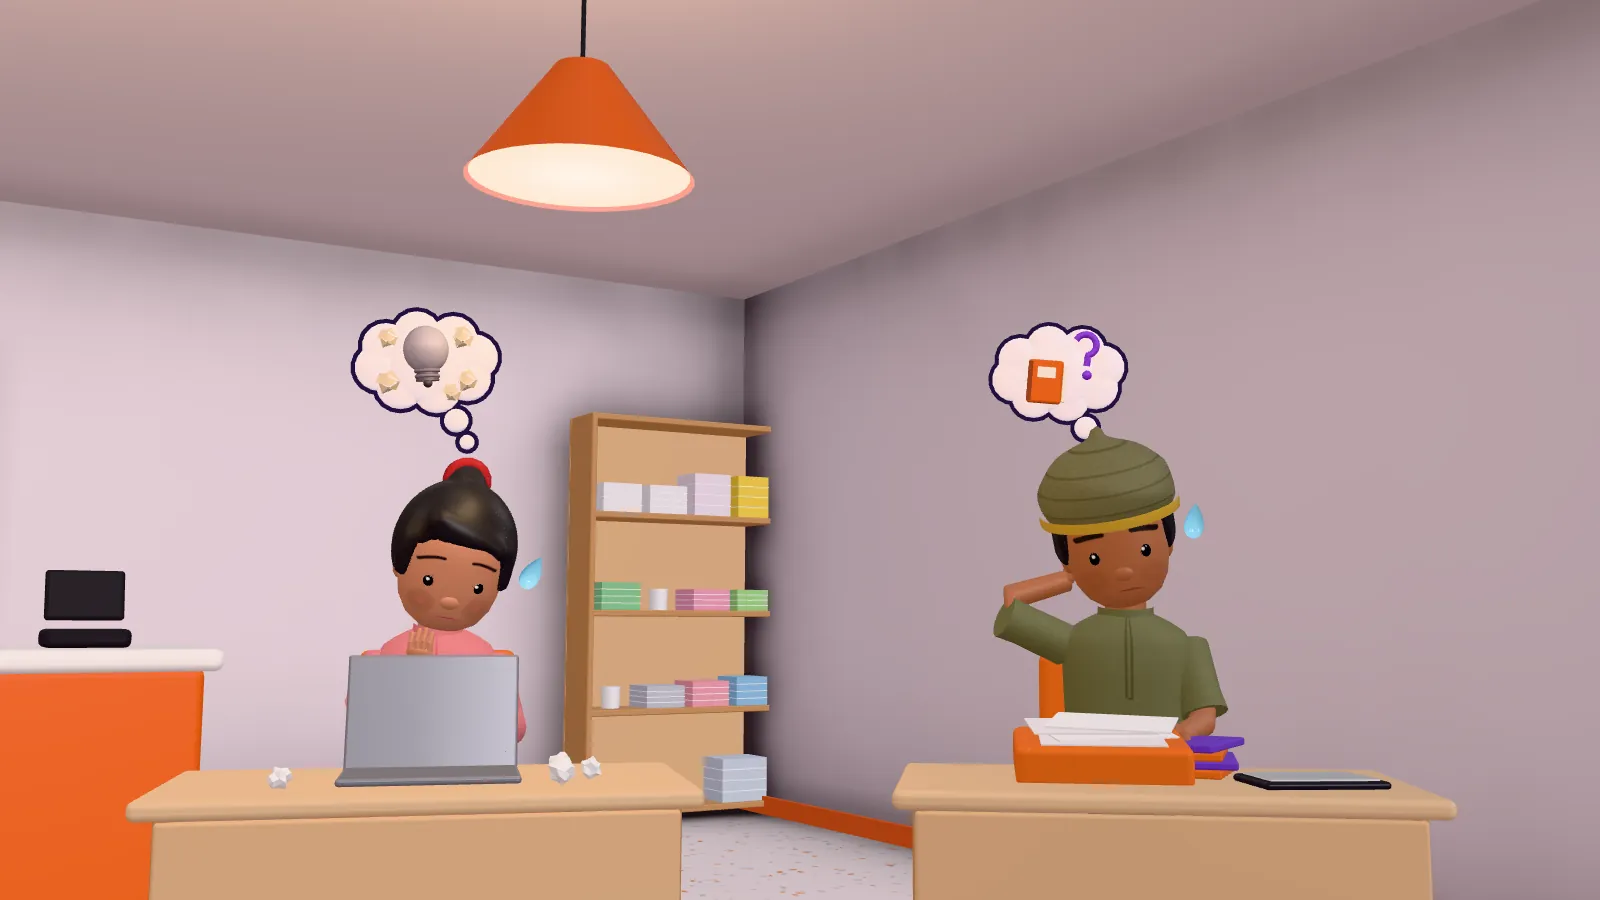
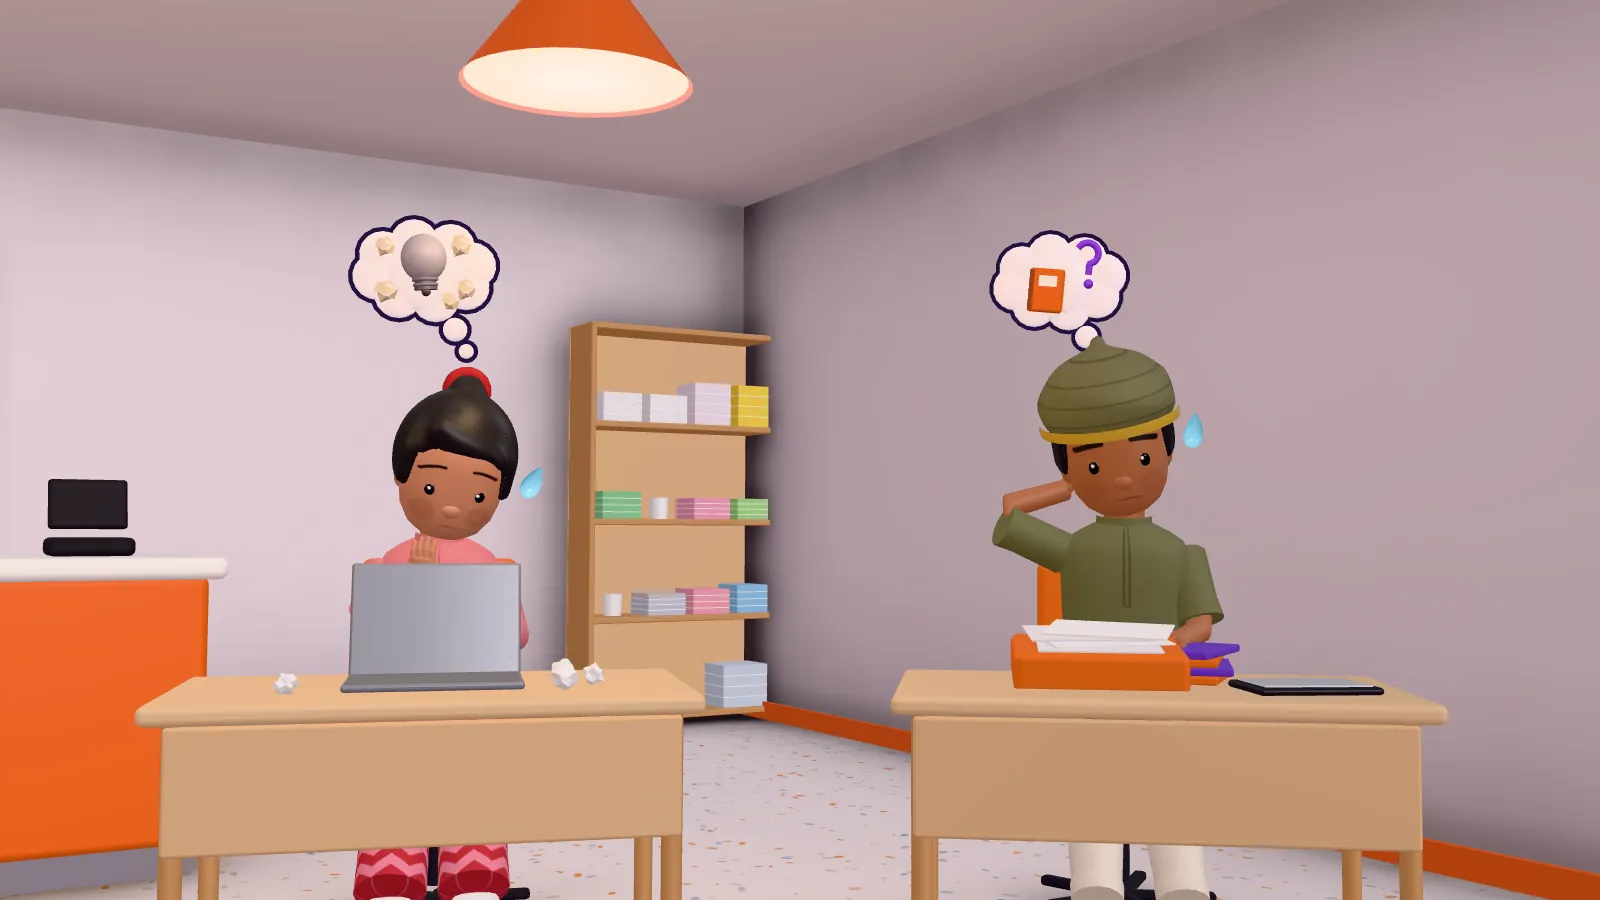
Keep the desks' front panels whole at K2.1 and K2.2 (#15)
The panels in front of the four staff desks will carry copy, so they now
stay whole with a margin in the hold and while the camera moves
K2 -> K2.1 -> K2.2.

- 16:9: the solved K2.1 and K2.2 cameras tilt down a little, and the
  dolly from K2 looks a little lower as it comes down past Heru's head.
- Phones narrower than 9:16: both panels of a shot already spanned the
  screen, so K2.1 and K2.2 step back (and K2.2 turns a little) until
  both are whole. 9:16 and tablets are unchanged.
- PC stills K2.1 and K2.2 re-rendered; the 9:16 stills came out identical.

Refs #15

diff --git a/site/world/takes/home/index.ts b/site/world/takes/home/index.ts
@@ -21,9 +21,35 @@ export { followDoorClock, heruAt, heruClock, heruGate, poseHeru, type HeruState 
 
 const SEG_K2 = SEG.find((s) => s.from === "K2" && s.type === "move")!.screens,
   SEG_K21 = SEG.find((s) => s.from === "K2.1")!.screens;
-const kf = (k: SolvedKey, t: number) => blendCam(DATA.cams.pc[k], DATA.cams.hp[k], t);
-const UP = new THREE.Vector3(0, 1, 0);
+const UP = new THREE.Vector3(0, 1, 0),
+  RIGHT = new THREE.Vector3(1, 0, 0);
 const yawQ = (a: number) => new THREE.Quaternion().setFromAxisAngle(UP, a);
+const pitchQ = (a: number) => new THREE.Quaternion().setFromAxisAngle(RIGHT, a);
+
+// Issue #15: the front panels of the desks get copy, so they stay whole, a little clear of the edges of the frame,
+// at K2.1 and K2.2 and on the way there.
+/** pc: the solved K2.1 and K2.2 cameras tilt down this much (radians; none on hp, where the panels sit mid-frame). */
+const TILT: Partial<Record<SolvedKey, number>> = { "K2.1": 0.07, "K2.2": 0.062 },
+  /** pc: extra tilt down at the middle of the dolly K2 → K2.1 (radians), as the camera comes down past Heru. */
+  DIP = 0.1;
+/**
+ * Phones narrower than 9:16 (most of them): the two panels of each shot already span the screen's width, so K2.1
+ * and K2.2 step back (metres) and K2.2 turns a little left (radians) to keep both whole. `narrow` is 0 at 9:16 and
+ * wider (the hp keyframes' own format, where they fit), 1 at 375 × 812.
+ */
+const BACK: Partial<Record<SolvedKey, number>> = { "K2.1": 0.45, "K2.2": 0.6 },
+  TURN: Partial<Record<SolvedKey, number>> = { "K2.2": 0.013 };
+const narrowness = (aspect: number) => Math.min(1.5, Math.max(0, (9 / 16 - aspect) / (9 / 16 - 375 / 812)));
+const kf = (k: SolvedKey, t: number, narrow = 0) => {
+  const c = blendCam(DATA.cams.pc[k], DATA.cams.hp[k], t);
+  if (narrow > 0 && BACK[k]) {
+    const fwd = new THREE.Vector3(0, 0, -1).applyQuaternion(c.quat).setY(0).normalize();
+    c.pos.addScaledVector(fwd, -BACK[k] * narrow);
+    c.quat.premultiply(yawQ((TURN[k] ?? 0) * narrow));
+  }
+  if (TILT[k]) c.quat.multiply(pitchQ(-TILT[k] * (1 - t)));
+  return c;
+};
 
 /** Ease with zero speed at the start and speed `m` (in units of the whole move) at the end. */
 const easeTo = (u: number, m: number) => (m - 2) * u ** 3 + (3 - m) * u ** 2;
@@ -34,10 +60,10 @@ const DRIFT = { yaw: 0.05, settle: 0.14 };
 
 const paths = new Map<string, { curve: THREE.CatmullRomCurve3; atB: number }>();
 /** Dolly path K2 → over Heru's head → K2.1 → on, measured by length; `atB` is K2.1's share of it. */
-function panPath(t: number, heru: { x: number; z: number }) {
+function panPath(t: number, heru: { x: number; z: number }, narrow: number) {
   const A = kf("K2", t),
-    B = kf("K2.1", t),
-    id = `${t.toFixed(3)} ${heru.x.toFixed(3)} ${heru.z.toFixed(3)}`;
+    B = kf("K2.1", t, narrow),
+    id = `${t.toFixed(3)} ${narrow.toFixed(3)} ${heru.x.toFixed(3)} ${heru.z.toFixed(3)}`;
   let c = paths.get(id);
   if (!c) {
     // over Heru's head (hair top 1.8 m), then down to the seated staff
@@ -58,16 +84,16 @@ function panPath(t: number, heru: { x: number; z: number }) {
 }
 
 /** Camera after K2.1, before the whip: still drifting forward and left, slowing down (u over the K2.1 move). */
-function drift(t: number, heru: { x: number; z: number }, u: number): CamPose {
-  const { B, curve, atB } = panPath(t, heru);
+function drift(t: number, heru: { x: number; z: number }, u: number, narrow: number): CamPose {
+  const { B, curve, atB } = panPath(t, heru, narrow);
   // the same speed per screen as on arrival, easing off over the move
   const k = (1 - (1 - u) ** 2) / 2,
     g = atB * ARRIVE * (SEG_K21 / SEG_K2) * k;
   return { pos: curve.getPointAt(atB + g), quat: yawQ(DRIFT.yaw * 2 * k).multiply(B.quat.clone()), fov: B.fov };
 }
 /** Camera coming into K2.2 after the whip: a little short of it and still turning right, at rest at u = 1. */
-function settle(t: number, u: number): CamPose {
-  const C = kf("K2.2", t),
+function settle(t: number, u: number, narrow: number): CamPose {
+  const C = kf("K2.2", t, narrow),
     k = (1 - u) ** 2,
     back = new THREE.Vector3(0, 0, 1).applyQuaternion(C.quat).setY(0).normalize();
   return {
@@ -94,7 +120,8 @@ export function cameraAt(
   outClock?: number,
 ): CamPose & { key: KeyName } {
   const { seg, u, start } = segmentAt(SEG, p);
-  const x = start + u * seg.screens;
+  const x = start + u * seg.screens,
+    narrow = narrowness(aspect);
   // beats 6–9a (tahap 7, greybox): in through Kreatekno's door from where the truck stopped at K5a.6
   if (x >= LOBBY_START) {
     const k56 = beat5Camera(LOBBY_START, Math.round(t * LAYOUT_STEPS), t, aspect, pairX(scrollClock(LOBBY_START)));
@@ -108,27 +135,30 @@ export function cameraAt(
   }
   if (seg.from === "K3" || seg.from === "K4") {
     if (seg.type === "hold") return { ...(seg.from === "K3" ? k3View : k4View)(t, aspect), key: seg.from };
-    return { ...beat34Camera(t, aspect, kf("K2.2", t), null, u), key: u < 0.5 ? "K3" : "K4" };
+    return { ...beat34Camera(t, aspect, kf("K2.2", t, narrow), null, u), key: u < 0.5 ? "K3" : "K4" };
   }
   if (seg.type === "move" && (seg.from === "K2.2" || seg.from === "K2.4")) {
     const s = seg.from === "K2.2" ? u * seg.screens : SEG_K22 + u * seg.screens;
     const key = s < SEG_K22 * 0.6 ? "K2.2" : s < SEG_K22 + seg.screens * 0.5 ? "K2.4" : "K3";
-    return { ...beat34Camera(t, aspect, kf("K2.2", t), s), key };
+    return { ...beat34Camera(t, aspect, kf("K2.2", t, narrow), s), key };
   }
-  if (seg.type === "hold") return { ...kf(seg.from as SolvedKey, t), key: seg.from };
+  if (seg.type === "hold") return { ...kf(seg.from as SolvedKey, t, narrow), key: seg.from };
   if (seg.from === "K2") {
-    const { A, B, curve, atB } = panPath(t, heru),
-      e = easeTo(u, ARRIVE);
+    const { A, B, curve, atB } = panPath(t, heru, narrow),
+      e = easeTo(u, ARRIVE),
+      // issue #15: coming down past Heru's head the camera looks a little lower, so Sinta's and Bayu's panels do
+      // not dip under the bottom edge on the way (most at e = 2/3, none at either end)
+      dip = DIP * (1 - t) * (27 / 4) * e ** 2 * (1 - e);
     return {
       pos: curve.getPointAt(atB * e),
-      quat: A.quat.clone().slerp(B.quat, e),
+      quat: A.quat.clone().slerp(B.quat, e).multiply(pitchQ(-dip)),
       fov: lerp(A.fov, B.fov, e),
       key: u < 0.5 ? "K2" : "K2.1",
     };
   }
   if (seg.from === "K2.1") {
-    const a = drift(t, heru, u),
-      b = settle(t, u);
+    const a = drift(t, heru, u, narrow),
+      b = settle(t, u, narrow);
     return {
       pos: a.pos.lerp(b.pos, whip),
       quat: a.quat.slerp(b.quat, whip),

diff --git a/PLAN.md b/PLAN.md
@@ -1862,3 +1862,21 @@ Detail di **[PLAN-SOLUSI.md](PLAN-SOLUSI.md)**: sumber v1, arsitektur etalase, d
 ### 2026-11-13 (tahap 7 langkah 5–6 di-commit)
 
 - Atas permintaan user ("commit perubahan tahap 7"): langkah 5–6 di-commit ke `main` (belum di-push). Isinya hanya file tahap 7 (props lobi, stills, `HomeStage`/`HomeTake`, `world/index.ts`, `row.ts`, `takes/home/lobby.ts`, `timing.ts`, alat `tools/render`), di `messages` hanya subtree `home`, dan di `PLAN.md` hanya status dan plan tahap 7 serta entri log tahap 7. Tidak ikut: pekerjaan Solusi, `takes/home/index.ts` dan entri log issue #15. Isi commit dicek sendiri (typecheck, ESLint, `next build`).
+
+### 2026-11-13 (issue #15: kamera meja K2.1/K2.2)
+
+- Penyebab:
+  - PC: kamera solver K2.1 dan K2.2 sedikit mendongak (+3,5° dan +6,6°). Di 1280×720 tepi bawah panel depan ada di 721/771 (K2.1) dan 768/762 (K2.2) dari 720. Selama dolly K2 → K2.1 panel turun sampai 846.
+  - HP 375×812: panel utuh tapi kecil (44–49 px). Dua panel satu shot sudah selebar layar (ujung luar −6/378 dan −28/390 px), jadi kamera tidak bisa lebih dekat tanpa memotong panel. User memilih panel utuh (pilihan A, 13 Nov); kamera HP tidak dibuat lebih dekat.
+- Diubah hanya `site/world/takes/home/index.ts` (`data.json` tetap):
+  - PC: `TILT` K2.1 0,07 rad dan K2.2 0,062 rad menunduk, `DIP` 0,1 rad tunduk tambahan di tengah dolly K2 → K2.1 (nol di kedua ujung). Keduanya dikali (1 − format), jadi nol di HP.
+  - HP lebih ramping dari 9:16: K2.1 mundur 0,45 m, K2.2 mundur 0,6 m dan berputar 0,013 rad ke kiri, dikali `narrowness(aspect)` (0 di 9:16 dan lebih lebar, 1 di 375×812, maks 1,5). Tablet dan 9:16 tidak berubah.
+  - Hanyut setelah K2.1, whip, settle dan jalur K2.2 → K3 memakai kamera keyframe yang sama.
+- Dicek (Playwright, kotak layar panel depan D1–D4, kepala dan gelembung pikiran per sampel K2 → K2.1 (17 titik) → K2.2; build produksi dan dev):
+  - PC 1280×720: tepi bawah panel maks 692 dari 720 di hold dan selama dolly; 1440×900: 843 dari 900. Gelembung teratas ≥168 px, header berakhir di 76.
+  - HP 375×812: kedua panel utuh, sisi 11–20 px di hold, minimal 3–5 px saat hanyut dan settle, tinggi ±40 px. 412×915 sisi ≥3 px; 360×640 (9:16) 34–39 px, sisi ≥10 px. Tablet 768×1024 sama seperti sebelumnya.
+  - Jalur K2.2 → K3 PC dan HP mulus (posisi, pitch, yaw per 1/12 jalur). Frame PC dan HP dicek visual (hanya di chat).
+  - Komentar Penyebab/Perbaikan/Dicek/Belum di issue #15. Typecheck, ESLint dan Prettier lulus untuk file yang diubah; `next build` lulus.
+  - Still PC K2.1 dan K2.2 dirender ulang (`stills.mjs 80 K2.1,K2.2`); still HP keluar identik byte per byte (9:16 tidak berubah), `stills.json` tidak berubah.
+  - Build produksi port 3300: `issue4.mjs` 73/73, `issue4-loading.mjs` 25/25. Dua putaran sebelumnya gagal di cek waktu loading (server baru menyala, RAM bebas 486 MB); putaran ketiga lulus semua.
+- Di-commit ke `main` setelah dikonfirmasi user ("commit jangan di push"): hanya `takes/home/index.ts`, still PC K2.1/K2.2 dan entri log ini. Belum: push dan tutup issue #15; hasil tes HP fisik belum dilaporkan.
